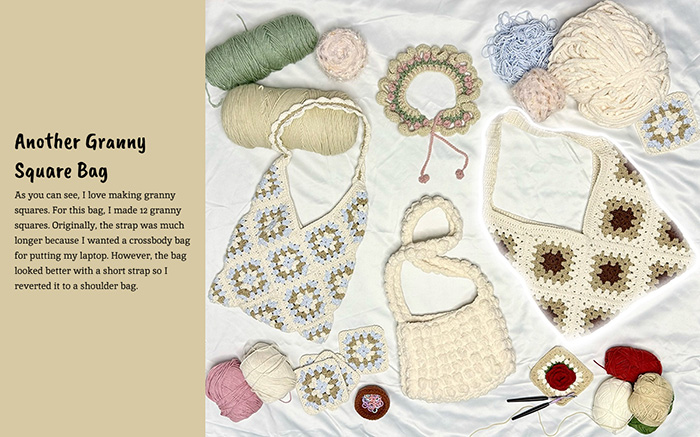
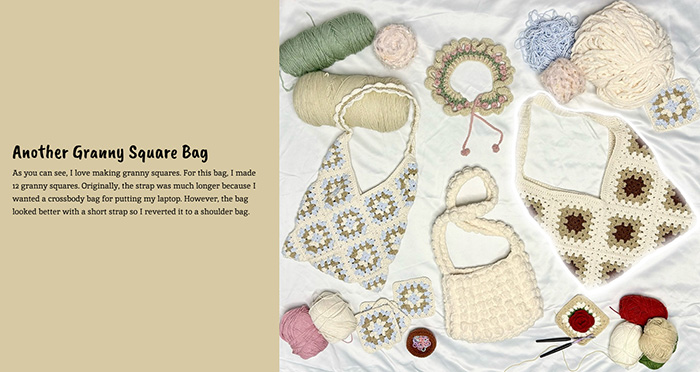
project development

diff --git a/everypicture/project-development/index.html b/everypicture/project-development/index.html
@@ -42,7 +42,7 @@
                     As shown in Figure 3, another change that I had is to make the site more responsive. Since the image map is unable to be responsive, I made sure the gap between the text and the image is consistent in different screen sizes on the desktop. This makes the experience equal for different users.
                 </p>
                 <figure>
-                    <img src="images/3.jpg" alt="a design comp of every picture project" width="700" height="437">
+                    <img src="images/3.jpg" alt="a design comp of every picture project" width="700" height="372">
                     <figcaption>Figure 3</figcaption>
                 </figure>
             </article>
